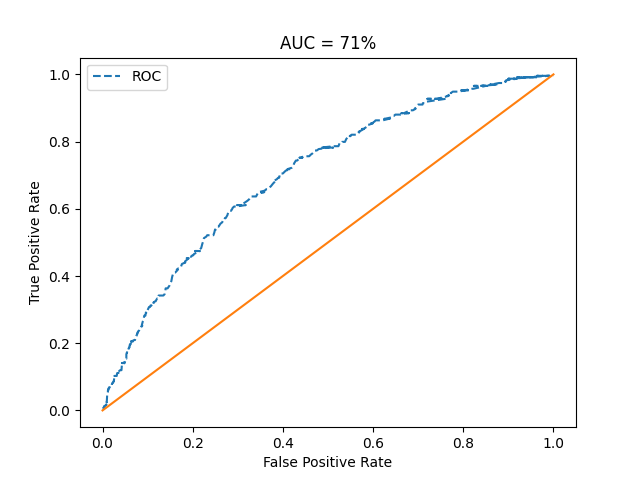
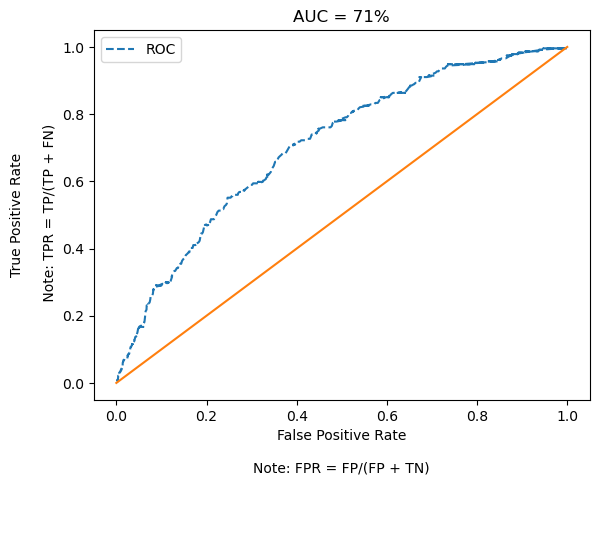
Version 6.04 updating the AUC file

diff --git a/README.md b/README.md
@@ -71,7 +71,7 @@ This step is mainly about data filling and checking the concentration ratio of d
 (Note: monotonicity check is not required For categorical features because monotonicity cannot be checked for categorical features.)
 
 ## 4.3 The detail of ChiMerge binning processing:  
-#### (1) Chi-Square function:    
+#### (1) ChiMerge function:    
 ![avatar](./graphics/ChiMerge_function.png)
 
 A. Group and sort the values in the feature.  
@@ -80,7 +80,7 @@ C. Find the minimum Chi-Square value. Assuming that the merged Chi-Square value 
 D. Continuing merge until the generated number of new bins is less than or equal to 5, then can end the processing.  
 
 #### (2) Merging the Zero_Bad_Sample_rate function：    
-Check whether each bin contains both good and bad samples     
+Check whether each bin contains both good and bad samples (note: only being processed in numerical feature)  
 ![avatar](./graphics/Merging_the_Zero_Bad_Sample_Rate_function.png) 
 
 A. If the bin is found that there are only good or bad samples, it is necessary to merge with adjacent bin.  
@@ -191,16 +191,17 @@ When a customer's default probability is 11% and the good to bad ratio is 8 (89%
 
 # Section 6 Evaluating the Model
 The KS 
+KS can tell the ability of differentiation  of the model. Usually KS is required: >=30%
  
 
 ![avatar](./graphics/KS.png)  
 
 The AUC
- 
+The AUC can tell the ability of prediction. Usually AUC is required: >=70%
 
 ![avatar](./graphics/AUC.png)  
 
- 
+at last , the PSI can tell the stability of the model. Usually PSI is required: <= 0.25
 
 # Section 7 Areas to be improved in this model  
 A.The different methods of deriving features from data can have a significant impact on the results.  
